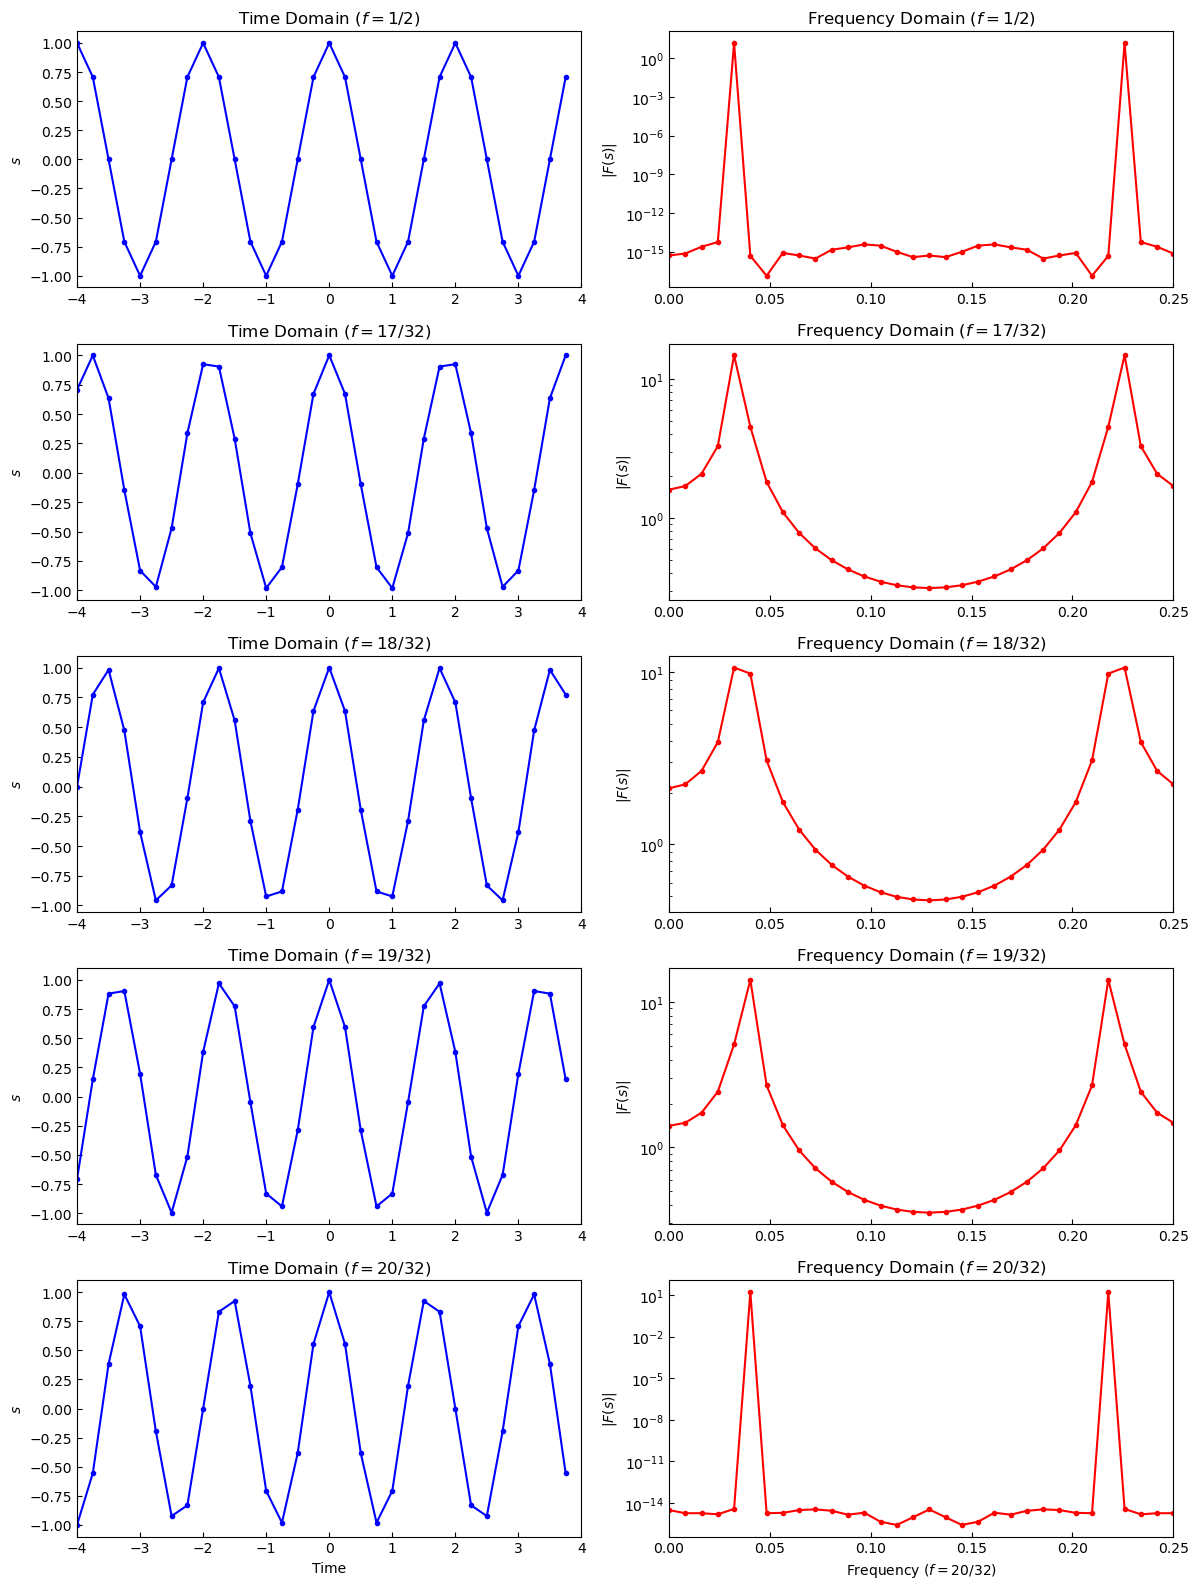
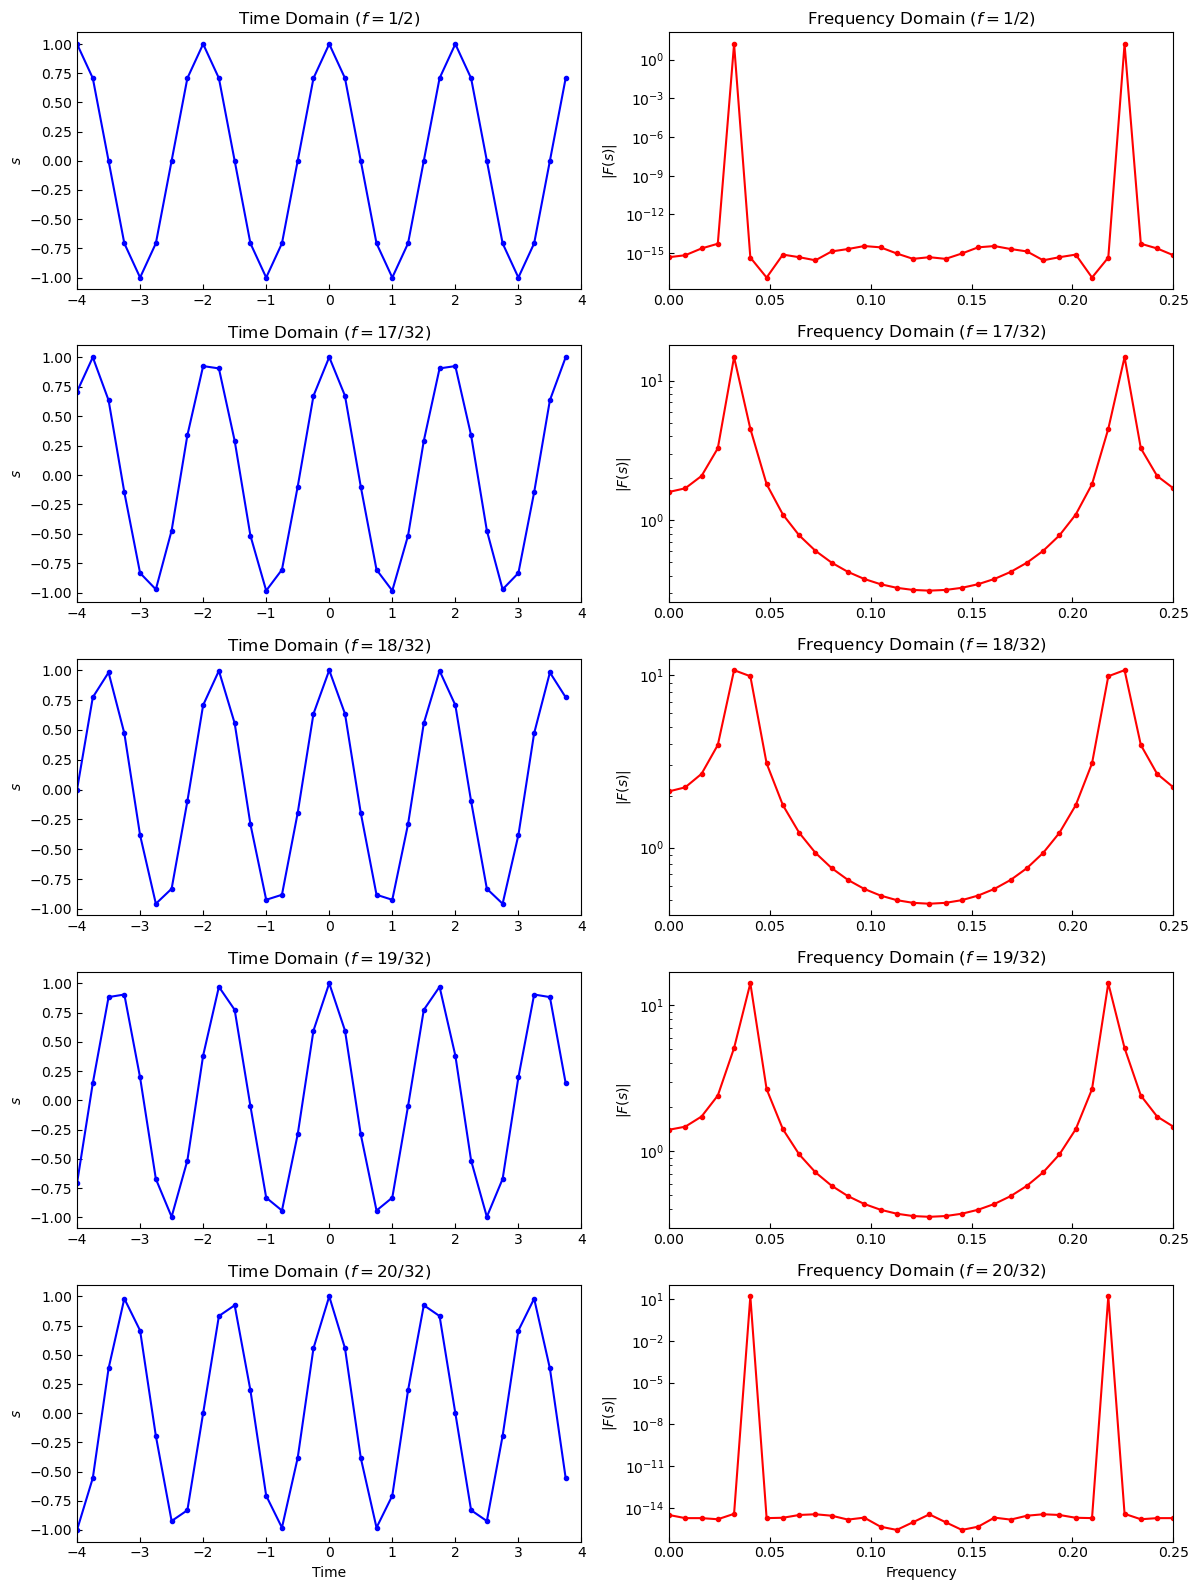
Update

diff --git a/fft/dft__leakage2.py b/fft/dft__leakage2.py
@@ -113,7 +113,7 @@ axs[4, 0].set_xlim(tmin, tmax)
 
 axs[4, 1].plot(freq, np.abs(fft_original), linestyle="-", color='red', marker='o', label='line with marker', ms=3)
 axs[4, 1].set_title(r"Frequency Domain ($f=20/32$)")
-axs[4, 1].set_xlabel("Frequency ($f=20/32$)")
+axs[4, 1].set_xlabel("Frequency")
 axs[4, 1].set_ylabel(r"$|F(s)|$")
 axs[4, 1].set_xlim(min(freq), max(freq))
 axs[4, 1].set_yscale('log')
